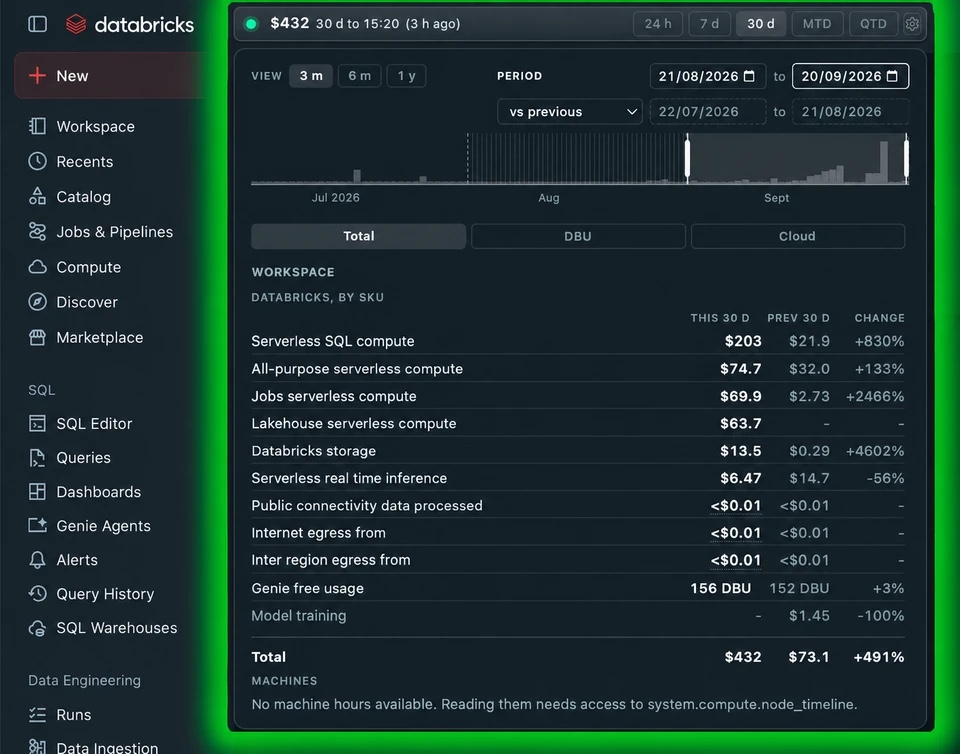
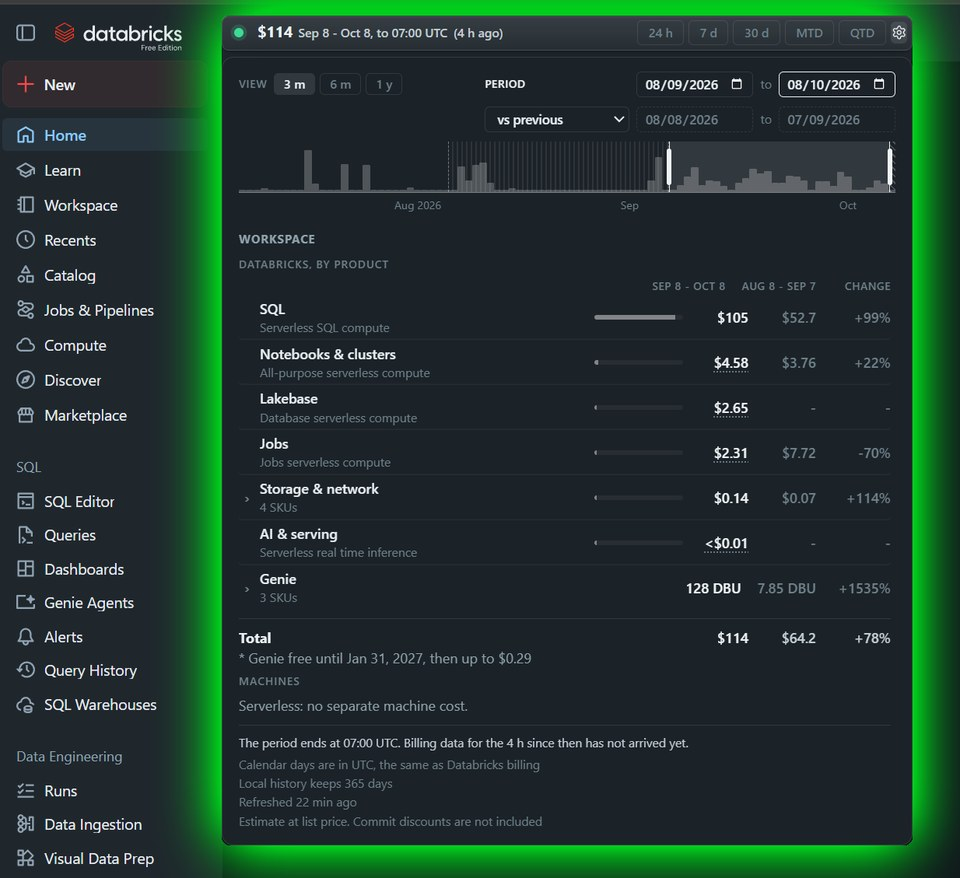
Update images and adjust layout for workspace cost popover display

Changed region(s): [[0.0, 0.0, 1.0, 1.0], [0.5938, 0.305, 0.625, 0.3355]]

diff --git a/public/index.php b/public/index.php
@@ -65,13 +65,13 @@ include __DIR__ . '/includes/header.php';
         <div class="hero_right">
           <figure class="shot">
             <picture>
-              <img src="./img/examples/workspace-cost-popover.jpg" width="1415" height="1111" fetchpriority="high"
-                alt="A Databricks workspace home page. In the top navigation, a chip reads: workspace $3.13, 24 h to 18:00, 4 h ago. Open below it, a panel with 24 h, 7 d and 14 d tabs, a bar chart whose last hours are hatched, a table of cost per SKU against the previous 24 hours, and a note that the window ends at 18:00 because billing has not reported the four hours since." />
+              <img src="./img/examples/workspace-cost-popover.jpg" width="1234" height="1129" fetchpriority="high"
+                alt="A Databricks workspace home page. In the top navigation, a chip reads: $114, Sep 8 - Oct 8, to 07:00 UTC, 4 h ago, beside 24 h, 7 d, 30 d, MTD and QTD buttons. Open below it, a panel with a three-month bar chart and the selected period marked on it, a table of cost by product against the previous period, and a note that the period ends at 07:00 UTC because billing has not reported the four hours since." />
             </picture>
-            <b class="pin" style="left: 22.5%; top: 4.1%" aria-hidden="true">1</b>
-            <b class="pin" style="left: 64.0%; top: 5.7%" aria-hidden="true">2</b>
-            <b class="pin" style="left: 90.1%; top: 18.4%" aria-hidden="true">3</b>
-            <b class="pin" style="left: 65.3%; top: 61%" aria-hidden="true">4</b>
+            <b class="pin" style="left: 21.9%; top: 3.7%" aria-hidden="true">1</b>
+            <b class="pin" style="left: 64.8%; top: 3.7%" aria-hidden="true">2</b>
+            <b class="pin" style="left: 90.8%; top: 17.7%" aria-hidden="true">3</b>
+            <b class="pin" style="left: 56.7%; top: 44.3%" aria-hidden="true">4</b>
           </figure>
         </div>
       </div>

diff --git a/public/features/index.php b/public/features/index.php
@@ -19,12 +19,12 @@ include __DIR__ . '/../includes/header.php';
       <div class="banner-feature-overview">
         <figure class="shot banner-feature-shot">
           <picture>
-            <img src="/img/examples/workspace-cost-popover-960.jpg" width="960" height="754" fetchpriority="high" alt="FinOpsWay cost banner in the Databricks workspace with its expanded view showing reporting periods, a chart and cost by SKU." />
+            <img src="/img/examples/workspace-cost-popover-960.jpg" width="960" height="878" fetchpriority="high" alt="FinOpsWay cost banner in the Databricks workspace with its expanded view showing reporting periods, a chart and cost by product." />
           </picture>
-          <b class="pin" style="left: 22.5%; top: 4.1%" aria-hidden="true">1</b>
-          <b class="pin" style="left: 64.0%; top: 5.7%" aria-hidden="true">2</b>
-          <b class="pin" style="left: 90.1%; top: 18.4%" aria-hidden="true">3</b>
-          <b class="pin" style="left: 65.3%; top: 61%" aria-hidden="true">4</b>
+          <b class="pin" style="left: 21.9%; top: 3.7%" aria-hidden="true">1</b>
+          <b class="pin" style="left: 64.8%; top: 3.7%" aria-hidden="true">2</b>
+          <b class="pin" style="left: 90.8%; top: 17.7%" aria-hidden="true">3</b>
+          <b class="pin" style="left: 56.7%; top: 44.3%" aria-hidden="true">4</b>
         </figure>
         <ol class="callouts banner-feature-callouts">
           <li><b>Widget on every page</b>Cost display within your workspace</li>
